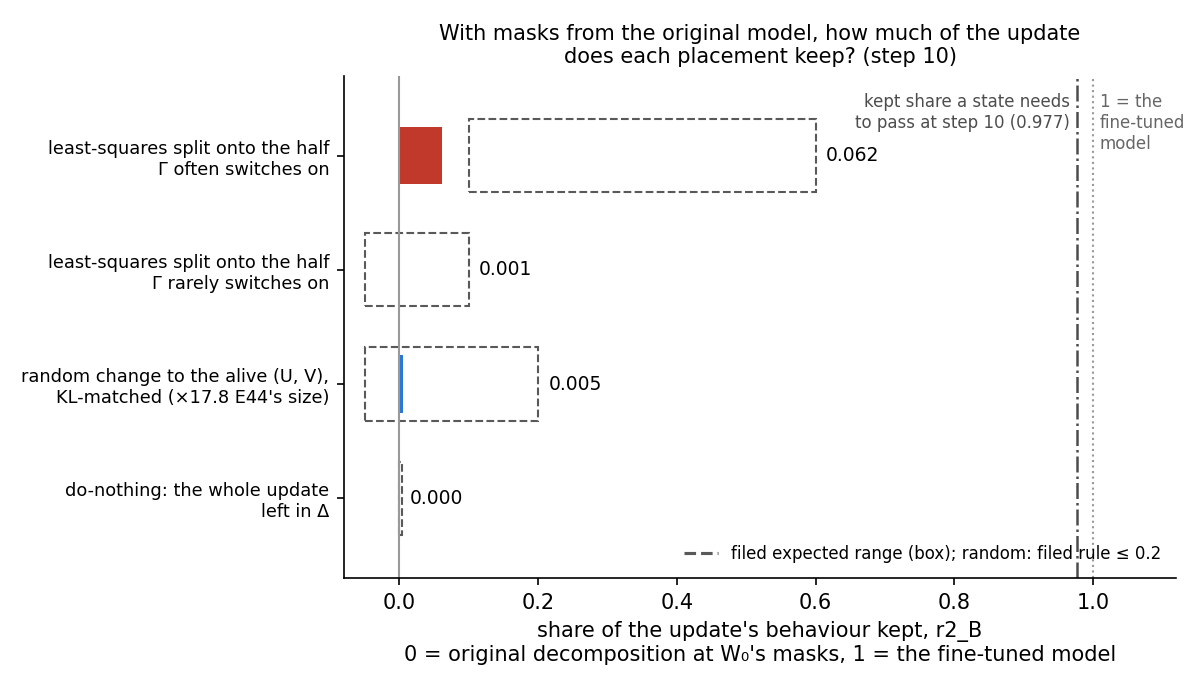
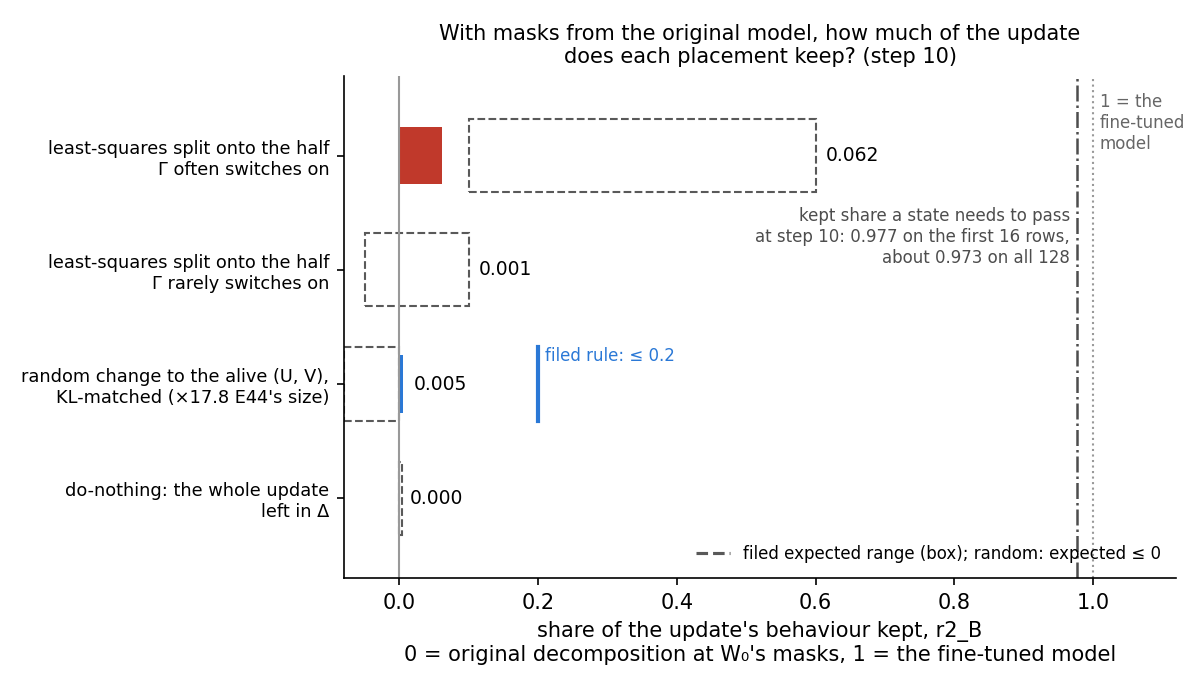
E44 A2 write-up: independent-check fixes (random's filed expectation <= 0 missed at 0.0053, direction labelled reported, 'likely because' reading, pass bar 0.977/0.973, ~480x); user confirmed move to Q3: decisions.md row, PENDING card replaced by its removal

diff --git a/experiments/qwen_maps/plot_amend2.py b/experiments/qwen_maps/plot_amend2.py
@@ -23,7 +23,8 @@ HERE = Path(__file__).resolve().parent
 RES = HERE / "results" / "amend2"
 FIG = HERE / "figures"
 LOWER, UPPER, RANDOM, DN = "#7f8c8d", "#c0392b", "#2a78d6", "#1e1e1e"
-MARGIN, PASS_R2 = 0.2, 0.977  # filed teeth_i margin; r2_B the r1 line asks at step 10 (predictions_amend2 pass.note)
+MARGIN, RANDOM_MAX = 0.2, 0.2  # filed teeth_i margin; filed teeth_ii rule, random r2_B <= 0.2
+PASS_R2 = 0.977  # r2_B the r1 line asks at step 10 on the first 16 rows (pass.note); about 0.973 on all 128
 
 
 def load(name: str) -> dict:
@@ -38,10 +39,10 @@ def per_row_rho(c: dict, t: dict, carried: float, half: str) -> list[float]:
 
 def kept_figure(sc: dict) -> None:
     ti, tii = sc["teeth_10"]["teeth_i"], sc["teeth_10"]["teeth_ii"]
-    rows = [  # label, r2_B, colour, filed expected range (None: a single expected value)
+    rows = [  # label, r2_B, colour, filed expected range (random: expected <= 0, drawn from the axis edge)
         ("do-nothing: the whole update\nleft in Δ", sc["control_do_nothing"]["10"]["r2"], DN, (0.0, 0.0)),
         (f"random change to the alive (U, V),\nKL-matched (×{tii['a']:.1f} E44's size)", tii["r2"], RANDOM,
-         (-0.05, 0.2)),
+         (-0.08, 0.0)),
         ("least-squares split onto the half\nΓ rarely switches on", ti["r2_lower"], LOWER, (-0.05, 0.10)),
         ("least-squares split onto the half\nΓ often switches on", ti["r2_upper"], UPPER, (0.10, 0.60)),
     ]
@@ -50,13 +51,16 @@ def kept_figure(sc: dict) -> None:
         ax.barh(i, v, color=col, height=0.5)
         ax.add_patch(Rectangle((lo, i - 0.32), max(hi - lo, 0.004), 0.64, fc="none", ec="0.35", ls="--", lw=1))
         ax.text(max(v, hi) + 0.015, i, f"{v:.3f}", va="center", fontsize=9)
+    ax.plot([RANDOM_MAX] * 2, [1 - 0.32, 1 + 0.32], color=RANDOM, lw=2)
+    ax.text(RANDOM_MAX + 0.01, 1 + 0.2, "filed rule: ≤ 0.2", fontsize=8, color=RANDOM)
     ax.axvline(0, color="0.6", lw=1)
     ax.axvline(1, color="0.6", lw=1, ls=":")
     ax.axvline(PASS_R2, color="0.3", lw=1.2, ls="-.")
-    ax.text(PASS_R2 - 0.01, 3.55, "kept share a state needs\nto pass at step 10 (0.977)", ha="right", fontsize=8,
+    ax.text(PASS_R2 - 0.01, 2.55, "kept share a state needs to pass\nat step 10: 0.977 on the first 16 rows,\nabout 0.973 on all 128",
+            ha="right", fontsize=8,
             color="0.3", va="top")
     ax.text(1.01, 3.55, "1 = the\nfine-tuned\nmodel", ha="left", fontsize=8, color="0.4", va="top")
-    ax.plot([], [], ls="--", color="0.35", label="filed expected range (box); random: filed rule ≤ 0.2")
+    ax.plot([], [], ls="--", color="0.35", label="filed expected range (box); random: expected ≤ 0")
     ax.set_yticks(range(len(rows)), [r[0] for r in rows], fontsize=8.5)
     ax.set_ylim(-0.7, 3.7)
     ax.set_xlim(-0.08, 1.12)

diff --git a/experiments/TRIED.md b/experiments/TRIED.md
@@ -91,7 +91,7 @@ Codes E1–E13 are the ones the research log ("Update Decomposition", see `READM
 | E43 | Teacher training plus remainder: after teacher training, put the rest of the fine-tune into Δ (Δ′ = Δ + W_ft − W_tt, so the weights equal the fine-tuned model's exactly); does Δ′ stay behaviourally inert and the decomposition as faithful as teacher training's own state? (`experiments/teacher_training/remainder.py`, 2026-10-28; plan `reports/plans/2026-10-28_plan_e43-teacher-remainder.md`, the user's E43-only behavioural reading of "Δ does not absorb δW"; predictions `results/predictions_e43_v2.json` filed 15:48:10, sha256 `204c1fbb…`, refiling `predictions_e43.json` before any run; code review `reports/reviews/2026-10-28_review_e43-code.md`; results `results/teacher_training_e43.json`, log `results/large/run_e43.log`; analysis `reports/analyses/2026-10-28_analysis_e43-teacher-remainder.md`, notebook `notebooks/E43_teacher_remainder.ipynb`, figures `figures/e43_{check,removal,delta}.png` from `plot_e43.py`; RunPod H100 80GB HBM3, job 16:26-16:38, ~12 min, cost ~$2.5 (session spend $0.11 → $2.68, incl. ~12 min set-up) against the plan's ~$2; check `reports/reviews/2026-10-28_review_e43-check.md`) | E41's emoticon Adam 3e-5 arm-A fine-tune (24 matrices, batch 32, seed 0) at T10 and T1000, regenerated in-job; E41's one-shot task-text copy (Adam 1e-5, 1000 steps, batch-order seed 0, Γ and Δ frozen). Four states per step on the same rows: do-nothing, least-squares split, teacher training's own, plus remainder (teacher training's (U′, V′), target W₀ + δW). Pile harness check (one start, 20 steps, 256 rows) and removal shares KL(ft ‖ Δ′ back to Δ) / KL(ft ‖ W₀) on task windows and Pile rows | Controls C1, G1, PC, G3, G2 pass, E41 reproduced to four digits (floor 0.0748; teacher training's own 1.5465 / 0.9591; G2 4.1e-5 / 4.3e-5). **P3 does not hold** (lean holds; qualitative surprise against the claim): plus remainder 3.921 / 1.865, 2.54× / 1.94× teacher training's own 1.547 / 0.959 against a filed 1.25×, and above do-nothing 2.516 / 1.499 at both steps (share of do-nothing's excess removed −0.93 / −0.73, own 0.64 / 1.08); least squares 6.957 / 2.106; stochastic ratios 0.92-1.00 for all. **P2 between** at both steps (lean between): Pile removal share 0.235 / 0.417 (least squares 0.125 / 0.099; denominators 0.022 / 0.062 nats). P1 check true: task removal share 0.0013 / 0.0056 = E41's gap shares. Reported: weight in Δ′ 5.12 / 1.12 × ‖δW‖² (plan expected 0.9-1.1), cos(R, teacher training's weight change) −0.90 / −0.42; Δ′ to zero costs 0.006 / 0.088 of the trigger log-odds. Per 128-row block, plus remainder's excess sits mostly in the second block at T10 (0.99, 4.49 nats vs W₀'s 0.68, 0.72) | Keeping the fine-tune's exact weights by adding the remainder to Δ costs faithfulness: on emoticon at steps 10 and 1000 the state fails the check and reads worse than do-nothing. Per the plan's tree, teacher training's own state (Δ untouched) stays the map; no run. The run did not test which part of Δ′ the adversary uses. Untested alternatives (teacher training on Pile text, then its remainder; least-squares split of R into the subcomponents first) are options on a pending-decision card, each needing a new plan. One task, one seed, one batch order, one adversary start, Adam, 67M |
 | E44 | Qwen3-1.7B, Q0 + Q1 maps and readings: can the pass test fail three deliberately bad placements of E40's update, and how do the least-squares split, the least-squares split without the part outside the subcomponents' span, and the scaled adjoint split read on it? (`experiments/qwen_maps/`, 2026-10-28; plan `reports/plans/2026-10-28_plan_qwen-q0q1.md`, Fable's advice `reports/reviews/2026-10-28_review_e44-plan-fable-advice.md`; code 50d9106, adversarial code review fixed in e5ebb33: resume kept stops, memory at batch 2, fp32 split storage, stage R rule, spend clock) | E40's saved weight changes after 1 and 10 steps (step 100 only if a split passes at step 10); bad placements: onto the subcomponents Γ rarely turns on for maths text, a random change with the same effect on the inputs, do-nothing; each read against the unchanged decomposition on the same text. First $0 rehearsal on the cluster was clean on the pre-fix code (Gram bases match SVD to 1e-14); rerun on the fixed code next, then about $8 on one H100 | Not run yet (status 2026-10-28: code and review fixes done, rehearsal rerun pending). No prediction on whether a split passes: the update is a large format change, so the run tests the pass test and the scoring | Planned; E45's Job 2 waits for it |
 | E44 Amendments 1 and 1b | Layer cut: do Γ's masks reproduce E40's step-10 update from the layers where δW acts, or only once Γ sees the fine-tuned model's late activations? (`experiments/qwen_maps/amend1.py`, `amend1b.py`, 2026-10-29; plan `reports/plans/2026-10-28_plan_qwen-q0q1.md`, "Amendment 1" and "Amendment 1b"; predictions `results/predictions_amend1.json`, `predictions_amend1b.json`; results `results/amend1/`, `results/amend1b/`; analysis `reports/analyses/2026-10-29_analysis_e44-amend1-layer-cut.md`, notebook `notebooks/E44_qwen_maps.ipynb` section "Amendment 1", figure `figures/amend1_layer_cut.png` from `plot_amend1.py`; MATS cluster L40, debug QoS, Slurm 44065 and 44161, $0 each) | 16 maths rows × 256 tokens, batch 1. Γ fed the fine-tuned model's taps and readouts before layer ℓ and W₀'s after, ℓ ∈ {0, 8, 16, 24, 28}; masked model on W₀'s weights, original subcomponents, Δ off, KL from the fine-tuned model. Comparator: unmasked model with fine-tuned weights before ℓ. Carrier split at 28: taps only, readouts only. Controls first: floor, splice identity, effect present. 1b: Γ fed every input of H(ℓ) itself (fine-tuned weights before ℓ, W₀'s after, consistent), ℓ ∈ {16, 24}; controls floor and bitwise reproduction of K(0), K(28); unscored KL(H(ℓ)‖masked from H(ℓ)) | Controls hold (floor 0, identity exact, K(0) 1.496, K(28) 0.102, KL(FT‖W₀) 1.817). Masks' share m = 0, 0.0001, −0.0025, 0.306, 1; weights' share u = 0, 0.596, 0.926, 0.994, 1. Taps alone 0.989, readouts alone 0.223. **Verdict "copying" at ℓ* = 16, carrier taps**; flag "non-monotone" (m(16) 0.003 below m(8)), not scored. 1b: controls hold, K(0), K(28) bitwise. m_H(16) = 0.900 vs u(16) = 0.926, m_H(24) = 0.996 vs 0.994: **verdict "reproduces from consistent inputs"** (filed lean). KL(H(ℓ)‖masked) = 0.066, 0.079, 0.090, 0.102 at ℓ = 0, 16, 24, 28 | A1's "copying" stays as filed but 1b overturns its reading: the null was the splice's doing. Γ's masks follow whatever activations they are given, so under reading A do-nothing passes for any update; copying vs Γ responding to the change is not separable on consistent inputs (filed blind spot). Option 1 removes the free pass by construction and gives up any reading-A credit for Γ following changed activations. Input to the user's choice of Fable's option 1 (reading B, Amendment 2). One update, one step, no random comparator on Qwen |
-| E44 Amendment 2 | Reading B: with every state's CI masks computed by the frozen Γ from W₀'s activations (state's own V′ in the readouts), does the pass test fail do-nothing and a KL-matched random change, and credit the least-squares split onto the often-on half of each matrix's subcomponents over the rarely-on half? (`experiments/qwen_maps/amend2.py`, 2026-10-30; plan `reports/plans/2026-10-28_plan_qwen-q0q1.md`, "Amendment 2"; decision `decisions.md`, "E44 pass test", option 1, user; predictions `results/predictions_amend2.json`; results `results/amend2/`; analysis `reports/analyses/2026-10-30_analysis_e44-amend2-reading-b.md`, notebook `notebooks/E44_qwen_maps.ipynb` section "Amendment 2", figures `figures/amend2_kept.png`, `amend2_rows.png` from `plot_amend2.py`; MATS cluster L40, normal QoS, Slurm 46054, $0, 66 min) | E40 no-warm-up SFT δW, step 10 (step 1 controls only). 128 maths rows × 256 tokens, batch 1. Kept share r2_B = [K(D) − K_B]/[K(D) − K₀]; halves compared per unit carried, ρ = r2_B/(1 − Δ share) (E44's span-match condition replaced), margin 0.2. Random: E44's Σ-matched pieces scaled by a (multiplier) until KL(W₀‖random) within ×1.5 of KL(W₀‖FT). Controls first: floor, reproduction of A1/A1b, do-nothing = K(D) through the state path, stage S shares | Controls hold (floor 0, reproduction bitwise, do-nothing gap 0, r1_B maths 22.8 at 10 and 5.23 at 1; shares within 5.4e-9). Random a = 17.78, KL ratio 0.81, r2_B 0.0053: **teeth_ii holds**; its r1_B maths 9.77. Halves: r2_B 0.0013 (rarely-on) and 0.0618 (often-on, below filed [0.10, 0.60]); carried 0.288 and 0.478; ρ 0.0044 and 0.1292, difference 0.125 < 0.2: **teeth_i does not hold**; often-on ahead on 128/128 rows, bootstrap 95% [0.123, 0.127]. **No teeth at step 10: stopped before the splits** | Filed branch: reading B has no teeth on Qwen either; line moves to Q3's descriptive rows, card decision-e44-reading-b to the user. Reading, not finding: direction right on every row but small; a state with the fine-tuned weights needs r2_B ≥ 0.977, so under reading B the test looks near-unpassable rather than toothless. Not run: the three splits at 10 and 1, step 1 halves/random, step 100, web rows. One update, one random seed |
+| E44 Amendment 2 | Reading B: with every state's CI masks computed by the frozen Γ from W₀'s activations (state's own V′ in the readouts), does the pass test fail do-nothing and a KL-matched random change, and credit the least-squares split onto the often-on half of each matrix's subcomponents over the rarely-on half? (`experiments/qwen_maps/amend2.py`, 2026-10-30; plan `reports/plans/2026-10-28_plan_qwen-q0q1.md`, "Amendment 2"; decision `decisions.md`, "E44 pass test", option 1, user; predictions `results/predictions_amend2.json`; results `results/amend2/`; analysis `reports/analyses/2026-10-30_analysis_e44-amend2-reading-b.md`, notebook `notebooks/E44_qwen_maps.ipynb` section "Amendment 2", figures `figures/amend2_kept.png`, `amend2_rows.png` from `plot_amend2.py`; MATS cluster L40, normal QoS, Slurm 46054, $0, 66 min) | E40 no-warm-up SFT δW, step 10 (step 1 controls only). 128 maths rows × 256 tokens, batch 1. Kept share r2_B = [K(D) − K_B]/[K(D) − K₀]; halves compared per unit carried, ρ = r2_B/(1 − Δ share) (E44's span-match condition replaced), margin 0.2. Random: E44's Σ-matched pieces scaled by a (multiplier) until KL(W₀‖random) within ×1.5 of KL(W₀‖FT). Controls first: floor, reproduction of A1/A1b, do-nothing = K(D) through the state path, stage S shares | Controls hold (floor 0, reproduction bitwise, do-nothing gap 0, r1_B maths 22.8 at 10 and 5.23 at 1; shares within 5.4e-9). Random a = 17.78, KL ratio 0.81, r2_B 0.0053: **teeth_ii holds** (filed expectation ≤ 0 missed, ~4× the rarely-on half); its r1_B maths 9.77. Halves: r2_B 0.0013 (rarely-on) and 0.0618 (often-on, below filed [0.10, 0.60]); carried 0.288 and 0.478; ρ 0.0044 and 0.1292, difference 0.125 < 0.2: **teeth_i does not hold**; often-on ahead on 128/128 rows, bootstrap 95% [0.123, 0.127]. **No teeth at step 10: stopped before the splits** | Filed branch: reading B has no teeth on Qwen either; line moves to Q3's descriptive rows, confirmed by the user 2026-10-30. Reading, not finding: direction right on every row but small; a state with the fine-tuned weights needs r2_B ≥ 0.977, so under reading B the test looks near-unpassable rather than toothless. Not run: the three splits at 10 and 1, step 1 halves/random, step 100, web rows. One update, one random seed |
 | E45 | Qwen3-1.7B, Q2: four matched updates, two of known kind, to learn which readings tell "already there" from "new" (`experiments/qwen_updates/`, 2026-10-28; plan `reports/plans/2026-10-28_plan_qwen-q2.md`, approved by the user with Fable's changes, `reports/reviews/2026-10-28_review_e45-plan-fable-advice.md`: packed invented facts, a self-distillation null arm, seed 1 re-draws the data; Job 1 code 2e0927f) | SFT of Qwen3-1.7B on its own correct GSM8K answers, on GSM8K's human solutions, anchor 1 (prompted answers taught without the prompt), anchor 2 (invented facts), and the unfiltered self-distillation null; one recipe, each update saved at equal KL from the start. Job 1 (training): about 16 jobs on the MATS cluster `debug` QoS, $0, running. Job 2 (reading through E44's table): gated, about $15-20 on one H100 or $0 on a cluster L40 if E44 shows it fits | Not run yet (status 2026-10-28: Job 1 running). Only the anchors carry predictions; the GSM8K updates and the null carry none and no label beforehand | Planned; Job 2 waits for E44 |
 | E34 Amendment 6 | Teacher training coverage: harm on plain Pile text, plain SGD as the map's optimiser on Adam and LoRA teachers, the rare target r2 t275 (" in" → " Fig"), and a LoRA copied from Pile text for longer (`experiments/teacher_training/amend6.py`, 2026-10-28; plan `reports/plans/2026-10-23_plan_teacher-training.md` → "Amendment 6", from gaps 10, 7, 6, 4 of `reports/reviews/2026-10-28_review_technique-comparison.md`; analysis `reports/analyses/2026-10-28_analysis_e34-amend6.md`, notebook `notebooks/E34_teacher_training.ipynb` → "Amendment 6", figures `figures/amend6_{plain,sgd,rare,lora,gap}.png`, `plot_amend6.py`; RunPod H100 80GB HBM3, run 12:52-13:57, ~$6.9) | Teachers regenerated: r1 SGD 0.03, Adam 3e-5, E9's rank-8 LoRA on emoticon, r1, r0; r2 t275 SGD 0.1 (all 24 matrices, seed 0, step 1000). New readings on the harness's 256 Pile val rows: plain-text damage KL(W₀ ‖ state) and gap KL(teacher ‖ state), plus the teacher's KL(teacher ‖ W₀). Stages: (a) r1 task-text and Pile-text copies at 1000, no adversary; (c) plain-SGD 0.03 copy on the r1 SGD (control), Adam and LoRA teachers; (b) r2 do-nothing, adjoint, both copies with the adversary; (d) LoRA Pile-text copies to 5000 at batch order 0, to 2500 at order 1 | C1, W₀ plain text 0, G1 (0.9834, 0.02875, 1.588), G3 (fail 3.137) pass; teachers match references; B0@1000 reproduces A3 to 4 decimals. **P1 holds**: plain-text damage × the fine-tune's: SGD A 0.85, B 1.00; Adam A 0.42, B 0.95; LoRA A 1.74 (plain-SGD LoRA copy 2.61, not scored). **P2, P3 "neither"**: r2 teacher P 0.863, do-nothing 11.34 fail; A 0.808 (kept line 0.813), 1.45 inconclusive; B 0.739, 2.48 fail; A read 0.871 at step 100 and slid. **P4 "map"**: plain-SGD copy fails on Adam 3.14 and LoRA 2.86 teachers (keeps P ≥ 0.987; LoRA in Δ passes at 1.00). **P5 fails**: emoticon 0.908 pass "learnt"; r1 0.887 "plateau" (0.902 and pass at 2500; 50-step means swap the two tasks: 0.883 vs 0.913); r0 0.819 "rising"; every adversarial read passed. **P6 holds** (ΔP ≤ 0.042, ratio ≤ 11%). LoRA copies do not move towards the LoRA on plain text: KL(T ‖ state) / KL(T ‖ W₀) 0.75, 1.12, 1.52 at 5000 (filed opposite-direction ratio 0.81, 0.79, 1.48), against 0.08-0.33 for full-weight teachers | Teacher training is harmless on plain text within 2× for r1's three teachers; it needs Adam (plain SGD fails late on every teacher; decisions.md row for the lead); a rare target stays out of reach of every Γ-frozen map, the task-text copy missing both bars inside noise (decision tree: pending-decision card); the label-free map carries a LoRA's trigger behaviour slowly to about the bar but not its plain-text change. Next by the tree: r1 and r0 Pile-text copies to 10,000 steps (approved, ~$1.5 each); the r2 task-text copy at step 100 under the adversary; per-matrix reading of the saved copies on CPU. Rescoped 2026-10-28 (user, after the claims red team): "it needs Adam" is withdrawn; plain SGD at 0.03 read at step 1000 fails on r1's Adam and LoRA teachers, while plain SGD as the student passes on emoticon at 0.01 (1.11) and on r1's SGD teacher at step 100 (1.00), so the failure is shown for one rate and one step count; the rate grid runs as E47 T5 |
 | E46 | Re-gating line reset, stage 0: is the gate gain g (log-odds the target gains from the change in which subcomponents Γ turns on) an instrument, i.e. does it pass nulls a real fine-tune fails? (`experiments/regating_table/`, 2026-10-28/29; plan `reports/plans/2026-10-28_plan_regating-line-reset.md` with Amendments 1-3; reports `reports/analyses/2026-10-29_analysis_e46-regating-table.md` and `reports/analyses/2026-10-29_analysis_e46-amendment3.md`, notebook `notebooks/E46_regating_table.ipynb`) | On the 67M: E18 and E12 fine-tunes (copy and random-map tasks, two seeds) against nulls: other-target fine-tune, sign-flipped δW, a Gaussian δW matched to the fine-tune's off-target KL (Amendment 2 raised the unsourced 10x norm cap to 100 after it bound on 6 of 7 rows), and a per-key direct write into block 1's MLP output (P0.4). Amendment 3 split the write and random nulls by least squares and read stage 1's stand-in ratio on them. Slurm 42604, 42675, 42791, 42993, $0 | P0.2 replicated E12 (copy 0.87-0.97, random-map 0.36-0.41). P0.4 passed thinly (write reads 0.16 and 0.34 of the copy fine-tune, 0.48 and 0.65 of the random-map fine-tunes). P0.3 inconclusive at matched KL: 6 of 7 random rows over the 0.1-nat floor (largest rand32 +0.49 against a fine-tune 3.75), none at the fail bar; g follows the random change's own real gain G. Amendment 3: the split hand writes read: random map A 0.40 against 0.36; random map B 0.57 against 0.39-0.41; copy writes, confounded, 0.89 and 1.13; random rows undefined (subcomponent gain under 1 nat); writes split with 38% in-span against 80%; A3.1 missed on random map B (interval clears the fine-tunes'), tree branch 5. Reading of the cells: masked gain = g + 0.04-0.51 nats, so the ratio is nearly g over the subcomponent gain; the split changes kept are 0.01-0.05 of it on every row | The stand-in ratio adds little beyond stage 0's g and the in-span share and reads misleadingly as a share kept; card: its role in stage 1 (lead: drop it) |

diff --git a/reports/analyses/2026-10-30_analysis_e44-amend2-reading-b.md b/reports/analyses/2026-10-30_analysis_e44-amend2-reading-b.md
@@ -11,16 +11,17 @@ below was read from the results files with `jq`, or computed from them by the pl
 **In plain words.** We reran the pass test with masks from the original model, and placed the fine-tuning update on
 subcomponents the decomposition often uses, on ones it rarely uses, or nowhere. The often-used placement kept more of
 the update's behaviour on every text row, but by far less than the filed bar, so the run stopped before scoring any
-split. For `GOALS.md`, no split of the update has been scored on Qwen, and the line moves to describing where the
-update lands.
+split. For `GOALS.md`, no split of the update has been scored on Qwen, and the user confirmed on 2026-10-30 that
+the line moves to describing where the update lands.
 
 ## The answer
 
-The test separates good placements from bad ones in the right direction, but by too little to clear its filed bar. Put
-on subcomponents the importance function switches on in the original model, the update keeps about 13% of its
-behaviour per unit carried. Put on the ones it leaves off, it keeps under half a percent. The often-used placement
-won on all 128 rows, but the filed margin asked for 20 points. A random change of matched effect kept nothing, and
-leaving the whole update outside the subcomponents now fails, as it should. By the filed outcome rule the test has no
+On all 128 rows the placement on often-used subcomponents kept more than the one on rarely-used subcomponents, a
+reported number, not a scored one; but the filed bar asked for a larger gap, and the test missed it. Put on
+subcomponents the importance function switches on in the original model, the update keeps about 13% of its behaviour
+per unit carried. Put on the ones it leaves off, it keeps under half a percent. The filed margin asked for 20 points.
+A random change of matched effect kept 0.005, slightly more than the rarely-on half's 0.001, far under the 0.2 line.
+Leaving the whole update outside the subcomponents now fails, as it should. By the filed outcome rule the test has no
 teeth at step 10, and the job stopped before the splits.
 
 ## What we were trying to test
@@ -44,7 +45,8 @@ The readings, each on 128 maths rows cut to 256 tokens:
 - The **kept share** is $r_2 = [K(D) - K_B] / [K(D) - K_0]$. It is 0 when the state is no closer to the fine-tuned
   model than do-nothing, and 1 when it is as close as the original decomposition is to its own model.
 - The **carried share** of a state is the part of the update its subcomponents hold, $1 - \text{share in Δ}$, with
-  the share measured in the norm weighted by the inputs' second moments, Σ.
+  the share measured in the norm weighted by the inputs' second moments, Σ. These are ratios of norms, so the shares
+  of different states do not add up, and they need not track the energy in a state's moved subcomponents.
 - The **kept share per unit carried** is $\rho = r_2 / \text{carried share}$.
 
 Three placements test whether the test can tell good from bad. Each comes from stage S of E44, rerun unchanged.
@@ -104,13 +106,14 @@ On all 128 rows of 256 tokens, $K_0$ read 0.0696 and $K(D)$ read 1.3738 at step 
 
 **Reading it.** Very little, for every placement. The often-on half keeps 0.062 of the update's behaviour, below its
 filed range of 0.10 to 0.60. The rarely-on half keeps 0.0013, inside its range. The random change keeps 0.005, far
-under its 0.2 line, and do-nothing keeps exactly 0. The dash-dot line marks the 0.977 a state holding the fine-tuned
-weights needs to pass at step 10. The best placement reaches about a sixteenth of it.
+under its 0.2 line but above its filed expectation of at most 0. Do-nothing keeps exactly 0. The dash-dot line marks
+the kept share a state holding the fine-tuned weights needs to pass at step 10. That is 0.977 on the first 16 rows,
+about 0.973 on all 128. The best placement reaches about a sixteenth of it.
 
 | state | $K_B$, nats | kept share | carried share | kept per unit carried | filed expectation |
 |---|---|---|---|---|---|
 | do-nothing | 1.3738 | 0 | 0 | not defined | 0 |
-| random, $a = 17.8$ | 1.3668 | 0.0053 | not used | not used | ≤ 0.2 rule; expected ≤ 0 |
+| random, $a = 17.8$ | 1.3668 | 0.0053 | not used | not used | rule ≤ 0.2, held; expected ≤ 0, missed |
 | rarely-on half | 1.3721 | 0.0013 | 0.288 | 0.0044 | kept −0.05 to 0.10 |
 | often-on half | 1.2933 | 0.0618 | 0.478 | 0.1292 | kept 0.10 to 0.60 |
 
@@ -128,15 +131,16 @@ the often-on half keeps 0.10 to 0.17 per unit and the rarely-on half 0.002 to 0.
 puts the difference between 0.123 and 0.127, so the miss is not row noise.
 
 The rarely-on half holds 8.6 times the often-on half's Σ-weighted energy in its moved subcomponents at step 10. It
-still keeps almost nothing, because under the original masks those subcomponents are nearly always off.
+still keeps almost nothing. Our reading, not measured here: likely because under the original masks those
+subcomponents are nearly always off.
 
 ### Does a random change of matched effect keep any of the update?
 
-**Reading it.** No: it keeps 0.005, against a filed line of 0.2. The search for $a$ took five evaluations. At $a = 1$,
+**Reading it.** Almost none: it keeps 0.005, against a filed line of 0.2. That is about four times the rarely-on
+half's 0.0013, and above the filed expectation of at most 0. The search for $a$ took five evaluations. At $a = 1$,
 E44's Σ-matched size, the random change moved the original model by 0.0013 nats on the first 16 rows. The fine-tuned
 model moved it by 0.62 nats. At $a = 17.8$ the random change moved it 0.50 nats, a ratio of 0.81, inside the factor
-1.5. So the update moves the output
-hundreds of times further, in KL, than a random change of its Σ-weighted size. The random
+1.5. So the update moves the output about 480 times further, in KL, than a random change of its Σ-weighted size. The random
 state's own-model ratio at the original masks read 9.8 against the 1.5 line. That is the question E44's random control
 raised, and under reading B the own-model ratio does fail a model the masks were not computed for.
 
@@ -145,12 +149,13 @@ raised, and under reading B the own-model ratio does fail a model the masks were
 The filed outcome rule reads "no teeth at step 10". The positive control missed its margin, so the job stopped before
 the least-squares split, the in-span least-squares split and the scaled adjoint split were read. As the plan's
 decision tree says for this branch, reading B has no teeth on Qwen either, and the line moves to Q3's descriptive rows.
+The user confirmed that move on 2026-10-30.
 For `GOALS.md` the weak version is still neither supported nor refuted on Qwen.
 
 The reading below is ours, not a filed finding. The direction is right and clean: subcomponents Γ switches on in the
 original model carry the update's behaviour about thirty times better per unit than ones it leaves off. But even that
 placement keeps little in absolute terms, about 13% per unit carried. A state holding the fine-tuned weights must keep
-97.7% to pass at step 10. If the kept share grew in proportion to the carried share, a split that put the whole update
+97.7% to pass at step 10 on the first 16 rows, about 97.3% on all 128. If the kept share grew in proportion to the carried share, a split that put the whole update
 on often-on subcomponents would keep about 13%. So under reading B the pass test looks near-unpassable for this update
 rather than toothless: it fails bad placements, and it would likely fail good ones too. That extrapolation is untested.
 
@@ -171,18 +176,21 @@ by its definition, to any credit for Γ following changed activations.
 
 ## Surprises
 
-The filed expectation for the often-on half missed: it kept 0.062, below the filed range of 0.10 to 0.60.
-The lean for the halves was medium-low, so the miss was a live outcome, not a reversal. Nothing
-else surprised. A smaller note: the random change needed nearly eighteen times its Σ-matched size to move the output
-as much as the update does.
+The filed prediction for the halves did not hold: the often-on half was to keep at least 0.2 more per unit carried,
+and it kept 0.125 more. Its kept share of 0.062 was also below the filed range of 0.10 to 0.60. The lean was
+medium-low, so the miss was a live outcome, not a reversal.
+
+The random change's filed expectation missed too, while its rule held. It was expected to keep at most 0, with a
+high lean, and it kept 0.0053. That is about four times what the rarely-on half kept, though still far under the
+0.2 line. A smaller note: the random change needed nearly eighteen times its Σ-matched size to move the output as
+much as the update does.
 
 ## What next
 
-- **The user confirms the move to Q3, or chooses a different pass test.** The card "E44 reading B" puts the evidence
-  and the options. Q3 describes where the update lands and which subcomponents Γ switches on, on saved states, about
-  $5 in the replan.
-- **If a different pass test is wanted**, it is a new amendment with its own filed predictions. This amendment's
-  verdict stands as filed either way.
+- **Q3, as the user confirmed on 2026-10-30.** Q3 describes where the update lands and which subcomponents Γ switches
+  on, on saved states, about $5 in the replan.
+- **A different pass test** would be a new amendment with its own filed predictions. This amendment's verdict stands
+  as filed either way.
 - **Why the often-on half keeps so little.** A $0 reading of the original masks' values on the often-on half's
   subcomponents would show whether fractional masks cap it. It matters only if a new pass test is considered.
 
@@ -210,6 +218,7 @@ as much as the update does.
 | teeth_i, reported | direction per row; bootstrap of ρ_upper − ρ_lower | none | 128 of 128 rows; 95% from 0.123 to 0.127 | reported |
 | teeth_i, expected | r2_B lower in [−0.05, 0.10]; upper in [0.10, 0.60] | expectation, not a rule | 0.0013 inside; 0.0618 below | upper missed |
 | teeth_ii | a KL-matched random change keeps at most 0.2 | matched, r2_B ≤ 0.2 | a = 17.78, KL ratio 0.81; r2_B 0.0053 | holds |
+| teeth_ii, expected | r2_B of the random change ≤ 0 | expectation, not a rule; lean high | 0.0053, about 4× the rarely-on half's 0.0013 | missed |
 | teeth_ii, reported | random's own-model ratio at the original masks | none | r1_B maths 9.77 | reported |
 | teeth_outcome | teeth at step 10 | all of do-nothing, teeth_i, teeth_ii hold | teeth_i does not | **no teeth: stop before the splits** |
 

diff --git a/docs/research_log/PENDING.md b/docs/research_log/PENDING.md
@@ -9,7 +9,7 @@ A flush applies every line to `parts/` (README.md → Layout), rebuilds, republi
 - 2026-10-30 reuse-lead · reports/analyses/2026-10-30_analysis_e55-amend5.md, notebooks/E55_pcfg_anchors.ipynb (section "Amendment 5"), experiments/pcfg_anchors/figures/amend5_saves.png, reports/reviews/2026-10-30_review_e55-amend5-code.md, experiments/TRIED.md · E55 card (rewritten: Amendment 5 result, truth set now 16 "reuses" states from 8 runs), timeline, next (Stage C) · E55 Amendment 5 (jobs 46022, 46023, $0): all four slow natural-row seeds reuse the old count of a at 500, 1K and 2K (1K: behaviour ~0.98, patch ~0.90, count b not through); the fast copy reuses at 500 and 1K, neither at 2K (0.41, 0.37); the T-prompt positive control is through count a by 500 steps in both seeds; no shortcut state; all six predictions met. Near guaranteed by construction (LOW's count + 1 is every label), so value as anchors; seeds × saves are not independent (5 new runs). Next: Stage C as option A with B, after the pass bar is re-set for the new set.
 - 2026-10-30 baseline-lead · reports/plans/2026-10-29_plan_e54-keydependent-elicit.md (Amendment 1), experiments/TRIED.md · E54 card (What next / Not run) · E54 Amendment 1 coded, not run: S read in log-odds (the route split's unit) on the six saved states, so the ratio table's "S estimated in log-odds" row becomes a measurement; predicted S_lo elicit ~0.25 vs matched cipher 0.22/0.18 (no separation), r - S_lo ~0.5 on elicit; MATS debug, $0.
 - 2026-10-30 · decisions.md (re-gating programme row), reports/plans/2026-10-30_plan_regating-development-FABLE-DRAFT.md · Next box / Q5 Next, timeline · User adopted Fable's re-gating programme: breadth-matched pair first, then ratio and r on the reuse line's labelled 67M fine-tunes; Qwen after.
-- 2026-10-30 qwen-decomp-lead · reports/analyses/2026-10-30_analysis_e44-amend2-reading-b.md, notebooks/E44_qwen_maps.ipynb (section "Amendment 2"), experiments/qwen_maps/figures/amend2_kept.png, amend2_rows.png, experiments/TRIED.md · E44 card (rewritten: Amendment 2 result; Q/Result box rewritten, not appended) · E44 Amendment 2 (job 46054, L40, $0), reading B, every state's masks from the original model's activations: controls all held (floor 0, reproduction bitwise, do-nothing through the state path = K(D) exactly and now fails, own-model ratio 22.8 at step 10). Random change KL-matched at a = 17.8 times E44's Σ-matched size keeps 0.005 (line 0.2): holds. The often-on half keeps 0.129 of the update's behaviour per unit carried against 0.004 for the rarely-on half: right direction on 128 of 128 rows, bootstrap 95% of the difference 0.123 to 0.127, but under the filed 0.2 margin, so teeth_i does not hold; the often-on half's kept share 0.062 is below its filed range 0.10 to 0.60. Filed outcome: no teeth at step 10, stopped before the splits; no split scored on Qwen. Reading, not a finding: a state holding the fine-tuned weights needs 0.977 to pass, so under reading B the test looks near-unpassable rather than toothless.
+- 2026-10-30 qwen-decomp-lead · reports/analyses/2026-10-30_analysis_e44-amend2-reading-b.md, notebooks/E44_qwen_maps.ipynb (section "Amendment 2"), experiments/qwen_maps/figures/amend2_kept.png, amend2_rows.png, experiments/TRIED.md · E44 card (rewritten: Amendment 2 result; Q/Result box rewritten, not appended) · E44 Amendment 2 (job 46054, L40, $0), reading B, every state's masks from the original model's activations: controls all held (floor 0, reproduction bitwise, do-nothing through the state path = K(D) exactly and now fails, own-model ratio 22.8 at step 10). Random change KL-matched at a = 17.8 times E44's Σ-matched size keeps 0.005 (line 0.2): holds; its filed expectation ≤ 0 missed, about 4x the rarely-on half's 0.0013. The often-on half keeps 0.129 of the update's behaviour per unit carried against 0.004 for the rarely-on half: right direction on 128 of 128 rows, bootstrap 95% of the difference 0.123 to 0.127, but under the filed 0.2 margin, so teeth_i does not hold; the often-on half's kept share 0.062 is below its filed range 0.10 to 0.60. Filed outcome: no teeth at step 10, stopped before the splits; no split scored on Qwen. Reading, not a finding: a state holding the fine-tuned weights needs 0.977 to pass, so under reading B the test looks near-unpassable rather than toothless.
 - 2026-10-30 qwen-decomp-lead · reports/analyses/2026-10-30_analysis_e44-amend2-reading-b.md · timeline · E44 Amendment 2: with masks from the original model the pass test fails do-nothing and a matched random change, and favours the often-on placement on every row, but by 0.125 per unit against a filed 0.2; no teeth, splits not read, the Qwen line moves to Q3's descriptive rows.
-- 2026-10-30 qwen-decomp-lead · reports/analyses/2026-10-30_analysis_e44-amend2-reading-b.md · pending decisions (new card, id decision-e44-reading-b) · "E44 reading B: teeth_i missed by margin; line moves to Q3 descriptive rows — confirm, or change the pass test?" Evidence: under reading B, do-nothing keeps 0 and fails; a KL-matched random change keeps 0.005; placing the update on subcomponents Γ switches on at W0 keeps 0.129 per unit carried against 0.004 for switched-off ones, on all 128 rows, but the filed margin was 0.2; a state with the fine-tuned weights needs a kept share of 0.977 to pass, and the best placement kept 0.062. Options: (1) confirm the filed branch: the line moves to Q3's descriptive rows (route split, Γ switching, think-mode overlap, where δW lands; ~$5 in the replan), the weak version unscored on Qwen; (2) change the pass test: a new amendment with its own filed predictions (Amendment 2's verdict stands either way, no refiling), e.g. a test that gives some credit for Γ following changed activations, which reading B gives none; before choosing it, a $0 read of the original masks' values on the often-on half would show whether fractional masks cap what any placement can keep. Run line: none queued; option 1 starts Q3 planning.
+- 2026-10-30 qwen-decomp-lead · reports/analyses/2026-10-30_analysis_e44-amend2-reading-b.md, decisions.md · pending decisions (no card added: decision-e44-reading-b was decided before the flush, remove it if present), decisions table · E44 reading B: teeth_i missed by margin; decided by the user 2026-10-30 (AskUserQuestion): move the Qwen line to Q3's descriptive rows as filed; Amendment 2's verdict stands; no new pass test now.
 - 2026-10-30 baseline-lead · decisions.md, reports/plans/2026-10-30_plan_baseline-next-draft.md · Pending decisions (remove decision-e56-baseline-next), timeline · The user approved E56 as drafted (2026-10-30): neuron patching on E54's six saved states, then seeds 2-4 of the pair, cluster debug, $0. Remove the card; add an E56 'Running / Due to run' line if a card or section lists due runs.

diff --git a/decisions.md b/decisions.md
@@ -93,3 +93,4 @@ from one, say so explicitly.
 | E54 reading (ask #5): P2 stays failed as filed (elicit S 0.38/0.39 > 0.3; gap 0.18 < 0.2, so S does not separate by the filed bar). Read as: the route split separates the pair (gap 0.54) about 3x more than steering does, and one mean vector moves a real part of the elicit map. Next steps follow the "P1 and P2 hold" line (same pair on Qwen, Jain readout check), labelled provisional. Reading the objection as holding (tree branch 2) was not taken. | 2026-10-30 | stage2.json (job 45974) | user, 2026-10-30 (dialog, recommended option) |
 | Re-gating line programme: adopt Fable's draft `reports/plans/2026-10-30_plan_regating-development-FABLE-DRAFT.md`. Keep one kind number (Γ's stand-in ratio, the route split's r beside it, steering as baseline column); (1) settle E53's breadth question with a better-matched pair ($0 cluster), (2) score ratio and r on the reuse line's ground-truth-labelled 67M fine-tunes as labels arrive; Qwen stage 1 only after both. Every claim says "elicited at the level of VPD's pieces". | 2026-10-30 | E53 1b missed its breadth gate (breadth question open); E54: r separates 0.77 vs 0.24, steering 0.38 vs 0.23 | user, 2026-10-30 (dialog, ask #13) |
 | E56 (`decision-e56-baseline-next`, ask #6): Fable's draft `reports/plans/2026-10-30_plan_baseline-next-draft.md` approved as written: neuron patching (E52's B2) on E54's six saved states first, then seeds 2-4 of the elicit/cipher pair, cluster debug, $0. Jain's readout first and waiting for Qwen were not taken. | 2026-10-30 | E54 A1: r gap at least ~6x steering's in log-odds, two seeds | user, 2026-10-30 (chat: "approve E56, go ahead") |
+| E44 after Amendment 2 (card `decision-e44-reading-b` closed): move the Qwen line to Q3's descriptive rows as filed (`reports/plans/2026-10-28_plan_qwen-line-replan.md` §Q3); Amendment 2's verdict, no teeth at step 10 under reading B, stands as filed; no new pass test now. | 2026-10-30 | E44 Amendment 2 (job 46054): controls and the random change held; the often-on half kept 0.129 per unit carried against 0.004, on all 128 rows, under the filed 0.2 margin (`reports/analyses/2026-10-30_analysis_e44-amend2-reading-b.md`) | user, 2026-10-30 (AskUserQuestion: move to Q3 as filed) |
